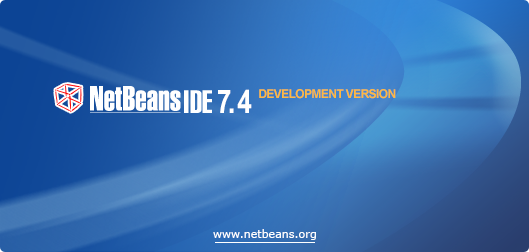
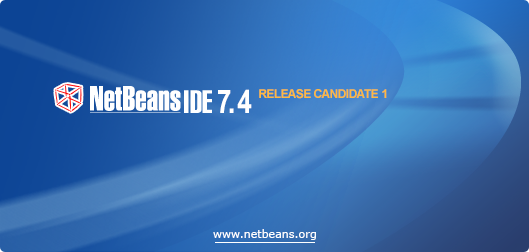
7.4 RC1 branding.

Changed region(s): [[0.4839, 0.3333, 0.7561, 0.3889]]

diff --git a/installer/infra/build/web/js/build_info.js b/installer/infra/build/web/js/build_info.js
@@ -54,18 +54,19 @@ build_info.ADDITIONAL_BUILD_LOCATION   = "{alternative.languages.page.url}";
 
 build_info.BUILD_LOCATION = "";
 
-build_info.LOAD_OMNITURE_CODE          = 0;
-build_info.LOAD_GOOGLE_ANALYTICS_CODE  = 0;
+build_info.LOAD_OMNITURE_CODE          = 1;
+build_info.LOAD_GOOGLE_ANALYTICS_CODE  = 1;
 build_info.USE_BOUNCER                 = 0;
 build_info.ADD_VERSION_INFO_TO_URL     = 0;
 
 build_info.BOUNCER_URL = "http://services.netbeans.org/bouncer/index.php";
 
-build_info.USE_HTML_ZIP_LISTING = 0;
+build_info.USE_HTML_ZIP_LISTING = 1;
 
 build_info.add_download_tabs = function() {
 	add_download_tab("7.3.1", "http://netbeans.org/downloads/");
-	add_download_tab(DEVELOPMENT_TITLE /*,DEVELOPMENT_BUILDS_LINK*/);
+        add_download_tab("7.4 RC1");
+	add_download_tab(DEVELOPMENT_TITLE,DEVELOPMENT_BUILDS_LINK);
 	add_download_tab(ARCHIVE_TITLE,ARCHIVE_BUILDS_LINK);
 }
 add_build_info(build_info);

diff --git a/installer/infra/build/web/js/common_strings.js b/installer/infra/build/web/js/common_strings.js
@@ -1,7 +1,7 @@
 /*
  * DO NOT ALTER OR REMOVE COPYRIGHT NOTICES OR THIS HEADER.
  *
- * Copyright 1997-2012 Oracle and/or its affiliates. All rights reserved.
+ * Copyright 1997-2013 Oracle and/or its affiliates. All rights reserved.
  *
  * Oracle and Java are registered trademarks of Oracle and/or its affiliates.
  * Other names may be trademarks of their respective owners.
@@ -75,8 +75,8 @@ BUNDLE_LONG_NAMES[2] = "C/C++";
 BUNDLE_LONG_NAMES[3] = "PHP";
 BUNDLE_LONG_NAMES[4] = "All";
 
-var RELEASE_NOTES_LINK  = "http://netbeans.org/community/releases/70/relnotes.html";
-var INSTALL_NOTES_LINK  = "http://netbeans.org/community/releases/70/install.html";
+var RELEASE_NOTES_LINK  = "http://netbeans.org/community/releases/74/relnotes.html";
+var INSTALL_NOTES_LINK  = "http://netbeans.org/community/releases/74/install.html";
 
 var LEGAL_INFO_HEADER = "Important Legal Information:";
 
